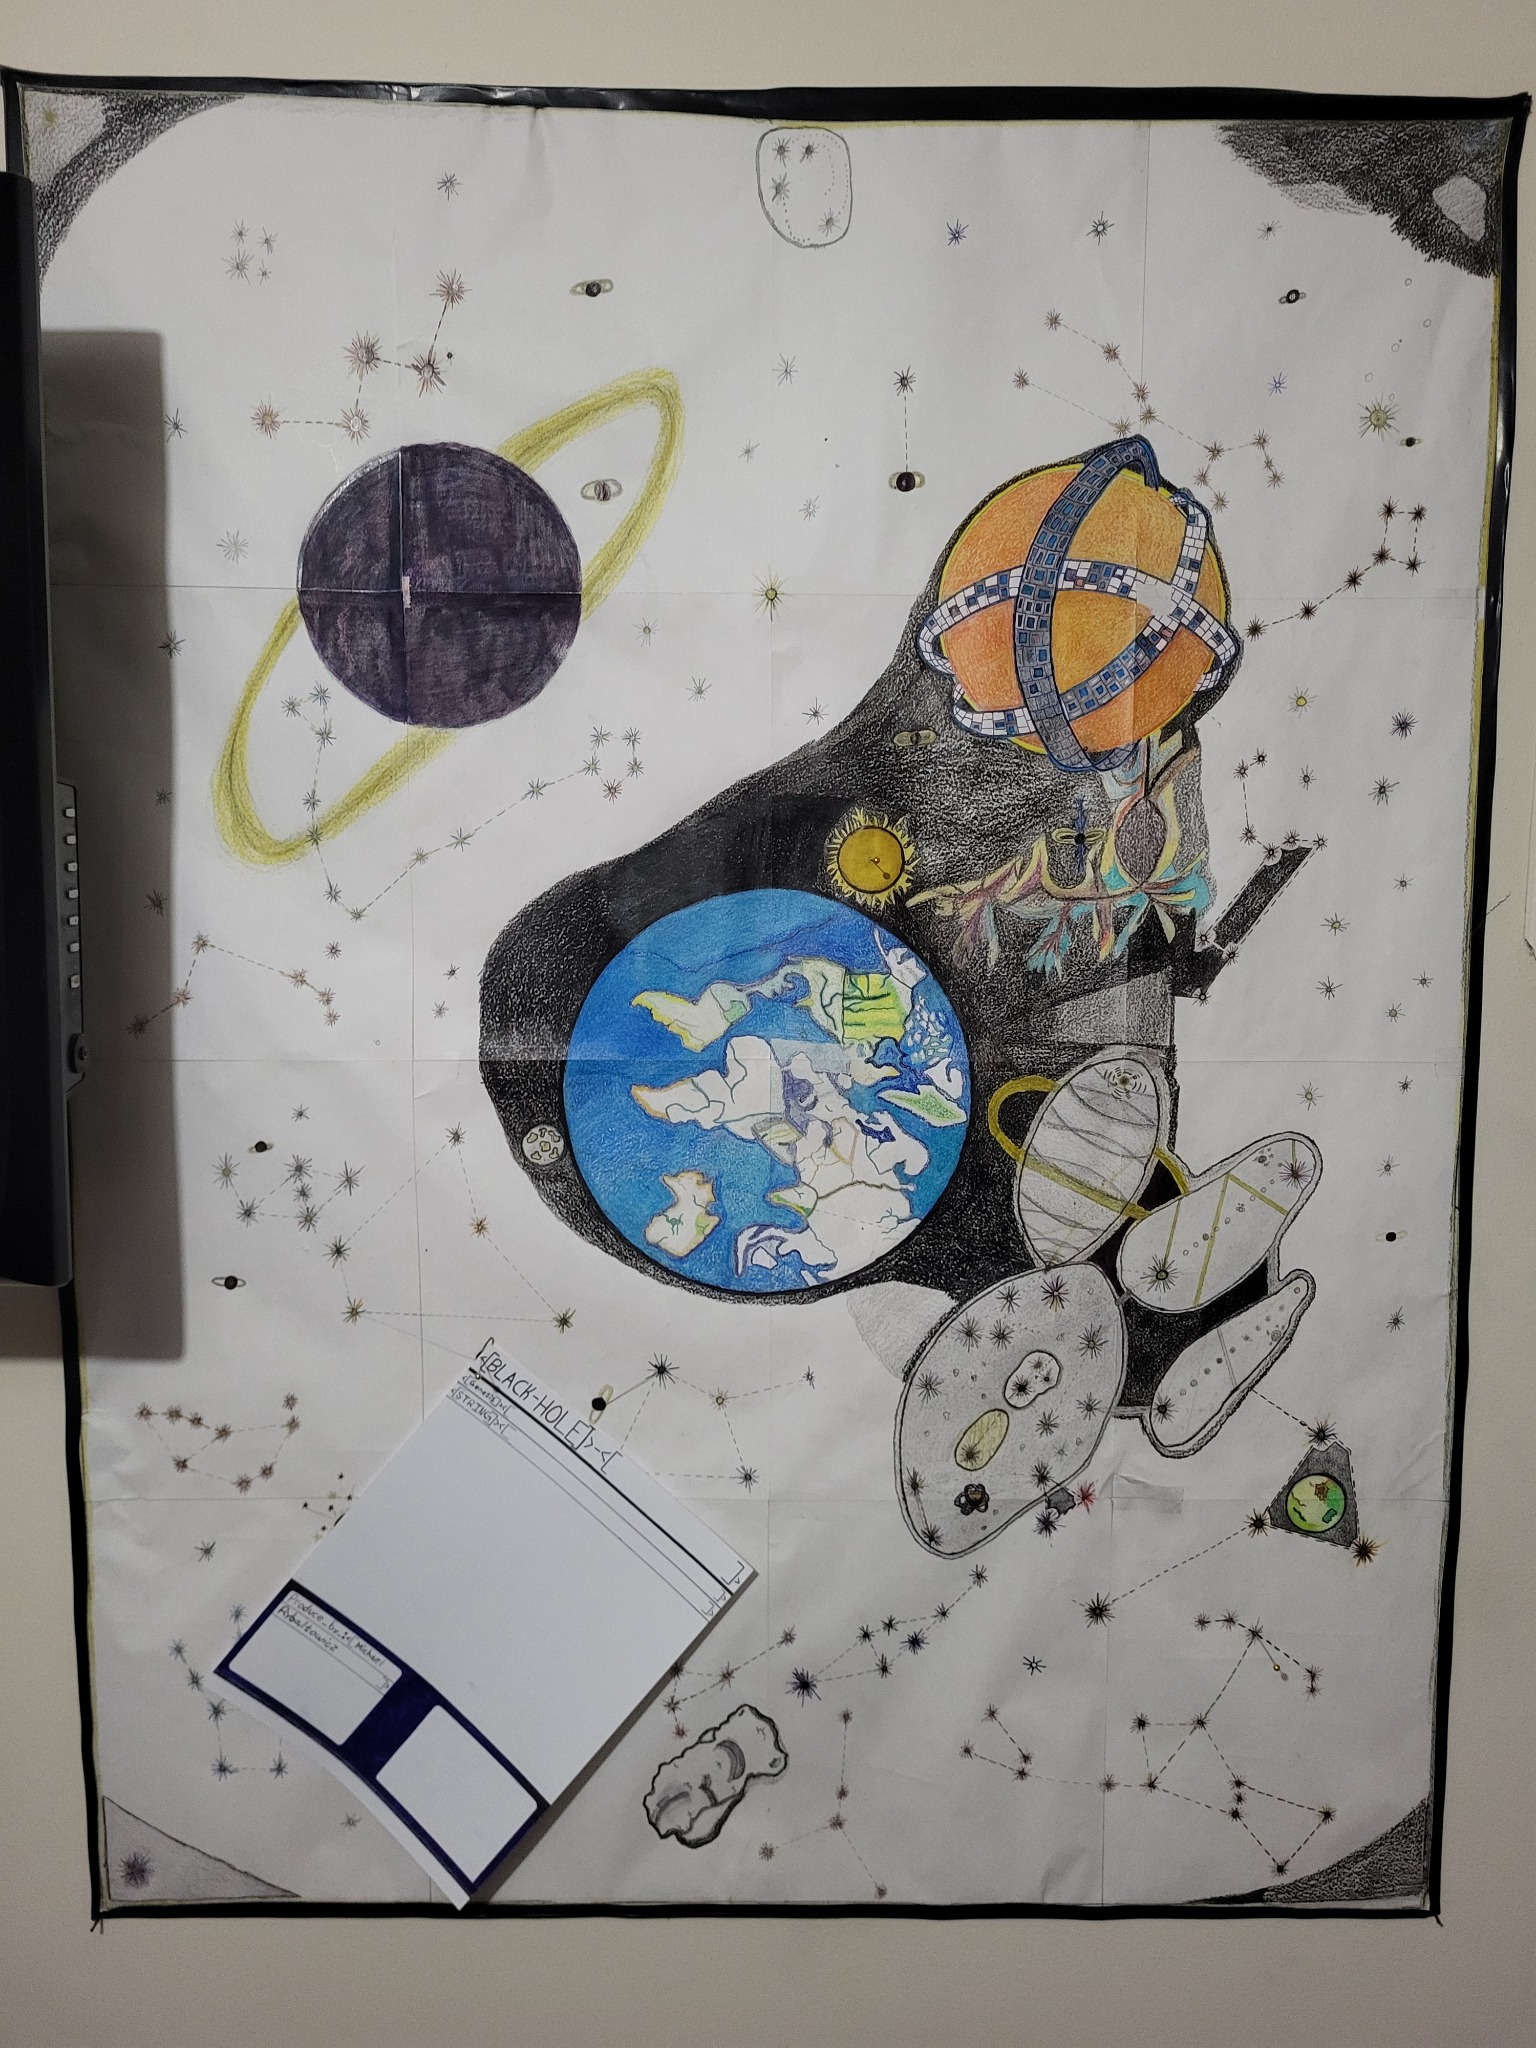
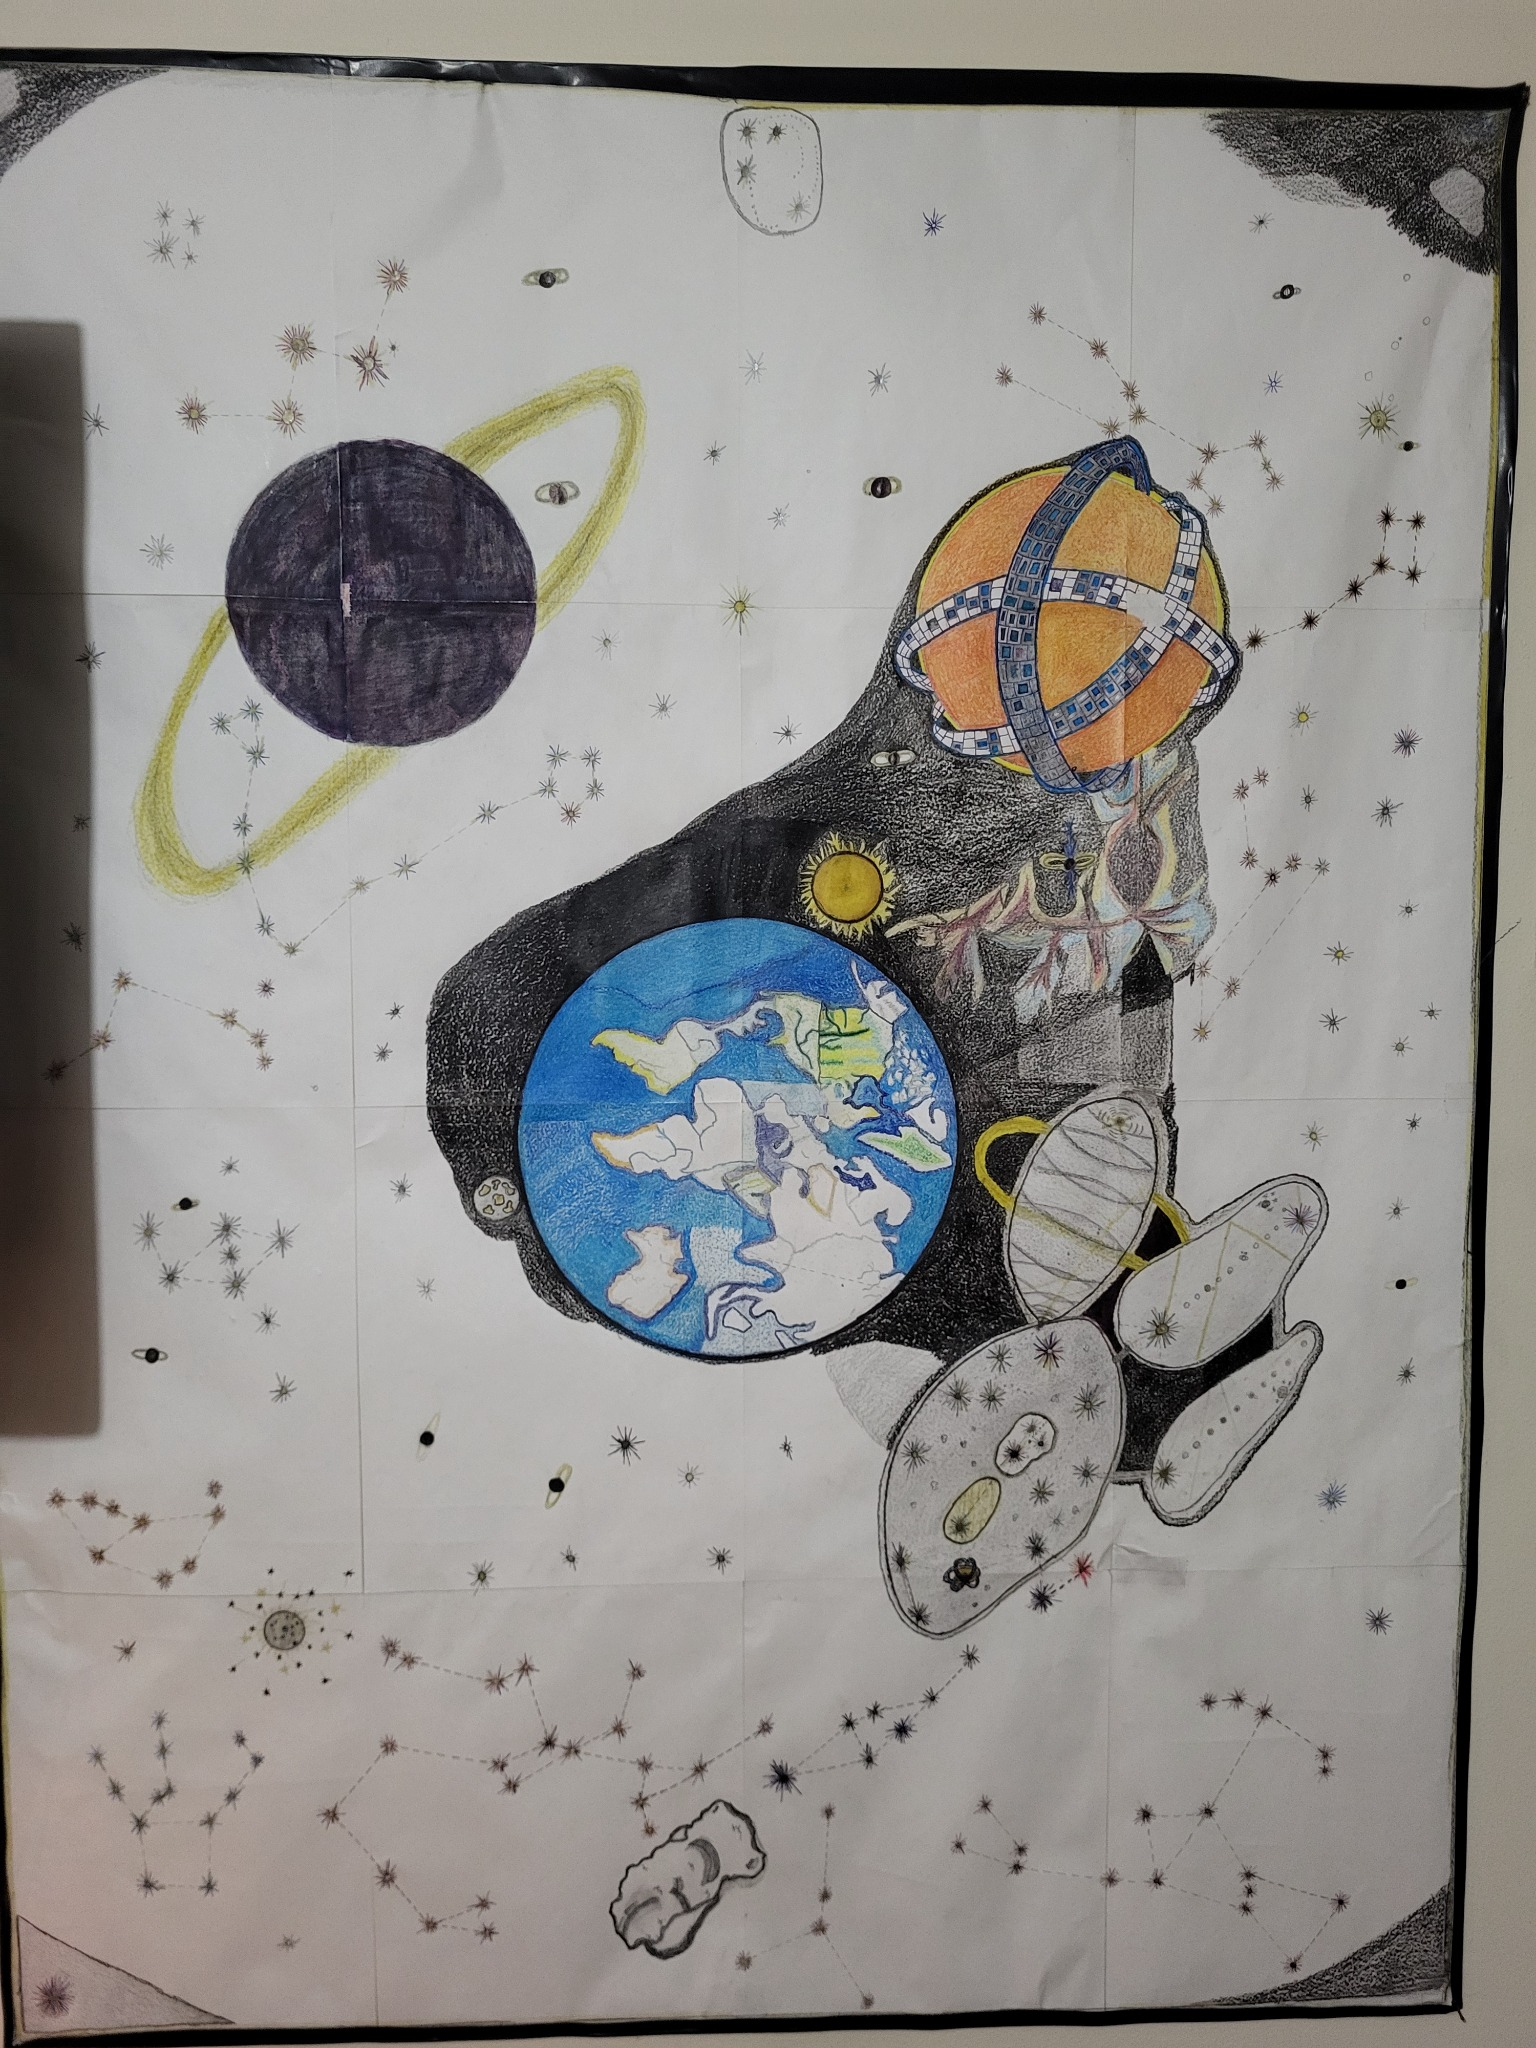
Add files via upload

diff --git a/app/servers/arma3-cth/page.js b/app/servers/arma3-cth/page.js
@@ -52,7 +52,7 @@ export default function ArmaPage() {
         <article className="content-card arma-hero-image-card">
           <Image
             src="/arma-cth-shot.png"
-            alt="Arma 3 CTH map and command reference"
+            alt="Arma 3 CTH battlefield map"
             width={1366}
             height={1024}
             className="page-image"
@@ -76,9 +76,9 @@ export default function ArmaPage() {
           <p className="eyebrow">Map reference</p>
           <h3>Visual context</h3>
           <div className="arma-highlight">
-            <strong>Current map and field reference</strong>
+            <strong>Altis battlefield map</strong>
             <p className="muted">
-              This page restores the Altis battlefield image so players have a quick visual reference for the Arma3 CTH environment before joining.
+              This route is aligned around the Arma battlefield map so the entry stays focused on gameplay instead of unrelated fallback images.
             </p>
           </div>
           <div className="arma-highlight">
@@ -97,30 +97,6 @@ export default function ArmaPage() {
               <li key={point}>{point}</li>
             ))}
           </ul>
-        </article>
-      </div>
-
-      <div className="arma-entry-grid">
-        <article className="content-card arma-hero-image-card">
-          <Image
-            src="/arma-cth-shot.png"
-            alt="Uploaded Arma reference photo"
-            width={1366}
-            height={1024}
-            className="page-image"
-          />
-        </article>
-
-        <article className="content-card">
-          <p className="eyebrow">Altis map reference</p>
-          <h3>Additional battlefield reference</h3>
-          <p className="muted">
-            This keeps the Arma3 route visually aligned around the Altis battlefield map for a cleaner and more consistent server entry.
-          </p>
-          <div className="server-inline-meta">
-            <span>Server IP: tcentral.game.nfoservers.com:2302</span>
-            <span>One live server overall</span>
-          </div>
         </article>
       </div>
     </PageShell>

diff --git a/lib/gameAssets.js b/lib/gameAssets.js
@@ -1,0 +1,5 @@
+export const GAME_ASSETS = {
+  cosmicSystem: '/cosmic-map.jpg',
+  blackholeAnchor: '/blackhole-anchor.jpg',
+  armaAltisMap: '/arma-cth-shot.png',
+};

diff --git a/components/SystemScene.js b/components/SystemScene.js
@@ -6,6 +6,7 @@ import { Canvas, useFrame, useThree } from '@react-three/fiber';
 import { Html, OrbitControls, Stars, Trail, Line, Billboard } from '@react-three/drei';
 import * as THREE from 'three';
 import { SERVER_CATALOG } from '@/lib/serverCatalog';
+import { GAME_ASSETS } from '@/lib/gameAssets';
 import { getSupabaseClient } from '@/lib/supabaseClient';
 
 const NODES = [
@@ -1028,7 +1029,7 @@ function Arma3BlackholeInterior({ item, statuses, onClose }) {
                   <span className="interior-step">Altis reference</span>
                   <h3>Battlefield map</h3>
                   <div className="browser-map-media">
-                    <img src="/arma-cth-shot.png" alt="Altis Arma 3 battlefield preview" className="browser-map-image" />
+                    <img src={GAME_ASSETS.armaAltisMap} alt="Altis Arma 3 battlefield preview" className="browser-map-image" />
                   </div>
                 </article>
               </div>

diff --git a/README.md b/README.md
@@ -277,7 +277,7 @@ Open:
   - `components/DonateSupportClient.js`
 - Added supporter status to the Steam HUD
 - Restored the Arma3 battlefield image inside the blackhole server browser
-- Added `public/photo.jpg` as a compatible image alias from the existing map asset
+- Added `public/arma-cth-shot.png` as a compatible image alias from the existing map asset
 
 ## Environment variables
 - `SUPPORT_LINK_SECRET` should be a long random secret in production
@@ -348,3 +348,10 @@ Open:
 ## Client exception fix
 - Restored the missing `reducedScene` state in `components/SystemScene.js`
 - Fixes the client-side exception caused by referencing `reducedScene` and `setReducedScene` before declaration
+
+
+## Asset cleanup pass
+- Removed `photo.jpg` entirely from the package
+- Standardized assets through `lib/gameAssets.js`
+- Kept the Arma route and Arma interior aligned to `arma-cth-shot.png`
+- Preserved the rest of the live web-game stack including Rust, Arma, standalone black hole anchor, donate page, and pilot-mode ship styling